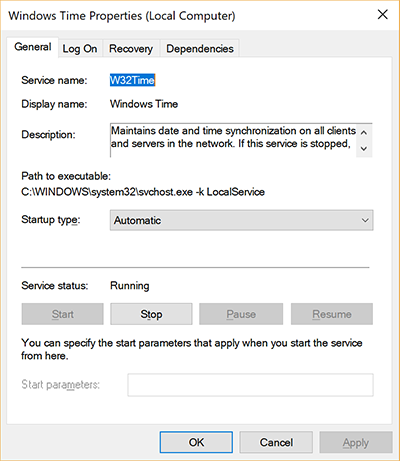
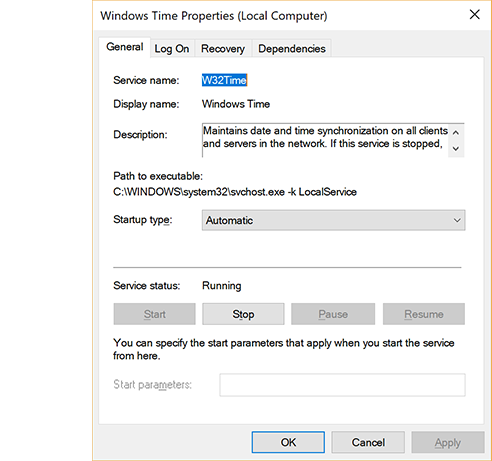
made the suggested changes

diff --git a/WindowsServerDocs/networking/windows-time-service/configuring-systems-for-high-accuracy.md b/WindowsServerDocs/networking/windows-time-service/configuring-systems-for-high-accuracy.md
@@ -21,14 +21,14 @@ The following guidance will help you configure your systems to achieve high accu
 
 > [!WARNING]
 > **Prior Operating Systems Accuracy Goals**<br>>
-> Windows Server 2012 R2 and below can not meet the same high accuracy objectives. These operating systems are not supported for high accuracy.
+>Windows Server 2012 R2 and below can not meet the same high accuracy objectives. These operating systems are not supported for high accuracy.
 >
-> In these versions, the Windows Time service satisfied the following requirements:
+>In these versions, the Windows Time service satisfied the following requirements:
 >
 > - Provided the necessary time accuracy to satisfy Kerberos version 5 authentication requirements.
 > - Provided loosely accurate time for Windows clients and servers joined to a common Active Directory forest.
 >
-> Greater tolerances on 2012 R2 and below are outside the design specification of the Windows Time service.
+>Greater tolerances on 2012 R2 and below are outside the design specification of the Windows Time service.
 
 ## Windows 10 and Windows Server 2016 Default Configuration
 
@@ -53,7 +53,7 @@ High accuracy configurations require Windows 10 version 1607 (Anniversary Update
 
 In the illustration shown below, the virtual machines requiring high accuracy are running Windows 10 version 1607 (Anniversary Update) or Windows Server 2016 version 1607 or later.  Likewise, the Hyper-V Host on which the virtual machines reside, and the upstream Windows time server must also run Windows Server 2016 version 1607 or later.
 
-![Time Topology - 1607](../media/Windows-Time-Service/Configuring-Systems-for-High-Accuracy/Topology2016.png) - decrease size and add white space on the left
+![Time Topology - 1607](../media/Windows-Time-Service/Configuring-Systems-for-High-Accuracy/Topology2016.png)
 
 
 >[!TIP] 
@@ -89,10 +89,15 @@ This measurement can be obtained using the inbox w32tm.exe tool.  To do this:
 <!-- Use PowerShell to import the CSV then average the RTT Column -->
 
 1. Perform the calculation from the target and time server B.
+    
     `w32tm /stripchart /computer:TimeServerB /rdtsc /samples:450 > c:\temp\Target_TsB.csv`
+
 2. Perform the calculation from time server b against (pointed at) time server a.
+    
     `w32tm /stripchart /computer:TimeServerA /rdtsc /samples:450 > c:\temp\Target_TsA.csv`
+
 3. Perform the calculation from time server a against the source.
+ 
 4. Next, add the average RoundTripDelay measured in the previous step and divide by 2 to obtain the cumulative network delay between target and source.3. 
 
 #### Registry Settings
@@ -100,7 +105,7 @@ This measurement can be obtained using the inbox w32tm.exe tool.  To do this:
 # [MinPollInterval](#tab/MinPollInterval)
 Configures the smallest interval in log2 seconds allowed for system polling.
 
-|  |  |  |
+|  |  | 
 |---------|---------|
 |Key location     | HKLM:\SYSTEM\CurrentControlSet\Services\W32Time\Config        |
 |Setting    | 6        |
@@ -116,7 +121,7 @@ w32tm /config /update
 # [MaxPollInterval](#tab/MaxPollInterval)
 Configures the largest interval in log2 seconds allowed for system polling.
 
-|  |  |  |
+|  |  |  
 |---------|---------|
 |Key location     | HKLM:\SYSTEM\CurrentControlSet\Services\W32Time\Config        |
 |Setting    | 6        |
@@ -131,7 +136,7 @@ w32tm /config /update
 # [UpdateInterval](#tab/UpdateInterval)
 The number of clock ticks between phase correction adjustments.
 
-|  |  |  |
+|  |  |  
 |---------|---------|
 |Key location     | HKLM:\SYSTEM\CurrentControlSet\Services\W32Time\Config       |
 |Setting    | 100        |
@@ -146,7 +151,7 @@ w32tm /config /update
 # [SpecialPollInterval](#tab/SpecialPollInterval)
 Configures the poll interval in seconds when the SpecialInterval 0x1 flag is enabled.
 
-|  |  |  |
+|  |  |  
 |---------|---------|
 |Key location     | HKLM:\SYSTEM\CurrentControlSet\Services\W32Time\TimeProviders\NtpClient        |
 |Setting    | 64        |
@@ -161,7 +166,7 @@ net start w32time
 
 # [FrequencyCorrectRate](#tab/FrequencyCorrectRate)
 
-|  |  |  |
+|  |  |  
 |---------|---------|
 |Key location     | HKLM:\SYSTEM\CurrentControlSet\Services\W32Time\Config      |
 |Setting    | 2        |
